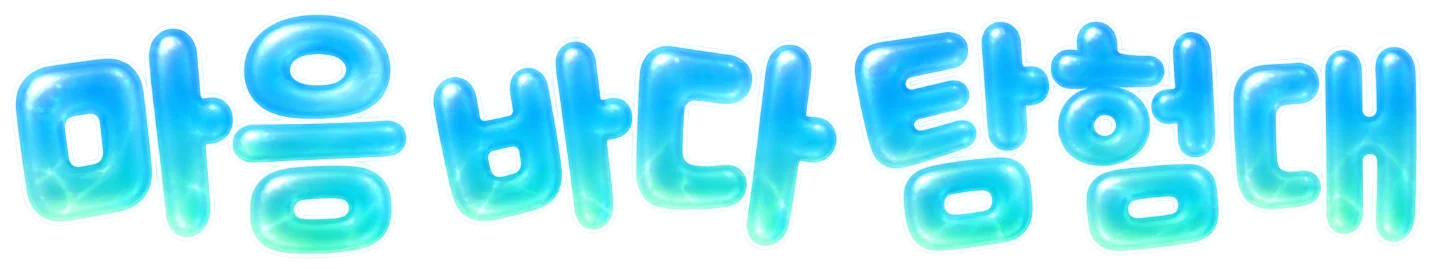
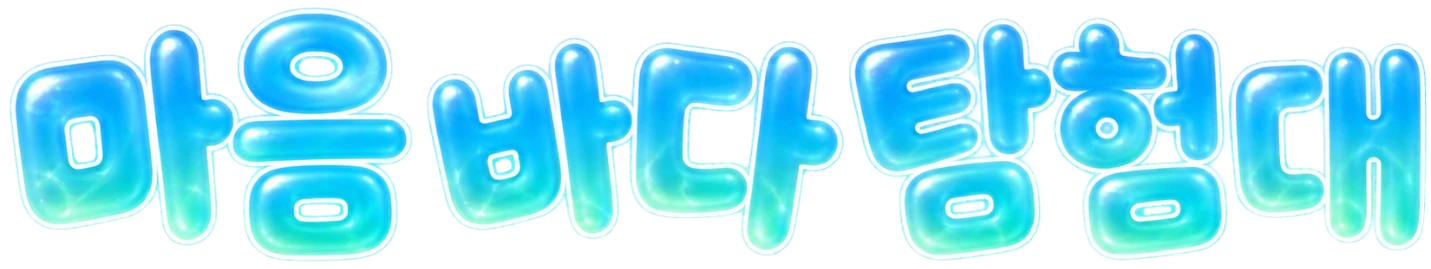
화면 다듬기: 튜토리얼 팻말, 글자 굵기, 일기 제목 정렬, 내 섬으로 강조, 체험 학급 문구

Changed region(s): [[0.0, 0.0297, 1.0, 0.9814], [0.0, 0.4164, 0.0922, 0.684]]

diff --git a/demo/seed-data.js b/demo/seed-data.js
@@ -6,7 +6,7 @@
   var D = {};
 
   D.CODE = "DEMO01";
-  D.SCHOOL_NAME = "시연 학급 (가상 데이터)";
+  D.SCHOOL_NAME = "마음 바다 체험 학급";   // 2026-09-15 저녁(전: "시연 학급 (가상 데이터)"). 실제 Firebase의 DEMO01은 다시 만들어야 바뀐다
   D.TEACHER = { id: "demoteacher", name: "시연 교사" };   // 비밀번호는 저장소에 두지 않는다. 패널 입력란에서 받는다
   D.ID_BASE = 700000000000;   // 학생 id = ID_BASE + 번호. 시각값(1.7e12)과 한눈에 구분된다
   D.PW = "1234";

diff --git a/CREDITS.md b/CREDITS.md
@@ -14,7 +14,7 @@ DESIGN §4 "참고와 모방의 선"에 따라, 외부에서 가져온 자료는
 | 자료 | 출처 | 비고 |
 |---|---|---|
 | `banner.webp` | 첫 화면 배경 | 제작 ChatGPT(생성 도구) · 2026-09-12 |
-| `title.webp` | 첫 화면 제목 | 제작 ChatGPT(생성 도구) · 2026-09-12 |
+| `title.webp` | 첫 화면 제목 | 제작 ChatGPT(생성 도구) · 2026-09-15(여백 잘라 1431×269, 2026-09-12 판은 `title_old.webp`) |
 | `panel.webp` | 로그인 창 배경(나무판 틀) | 제작 ChatGPT(생성 도구) · 2026-09-12 |
 | `sign-login.webp` · `sign-guest.webp` | 첫 화면 표지판(로그인·체험, 글자는 그림 안에) | 제작 ChatGPT(생성 도구) · 2026-09-13 |
 | `intro/isle-*.webp` · `intro/zoom-*.webp` | 첫 화면 아래 소개 섹션의 섬 그림과 네 영역 확대 | 이 앱의 3D 섬을 헤드리스 크롬으로 찍은 것(renders/harness/shootIsle.js · shootIntro.js) · 시연 학급 가상 데이터 · 2026-09-10 · 2026-09-13 |
